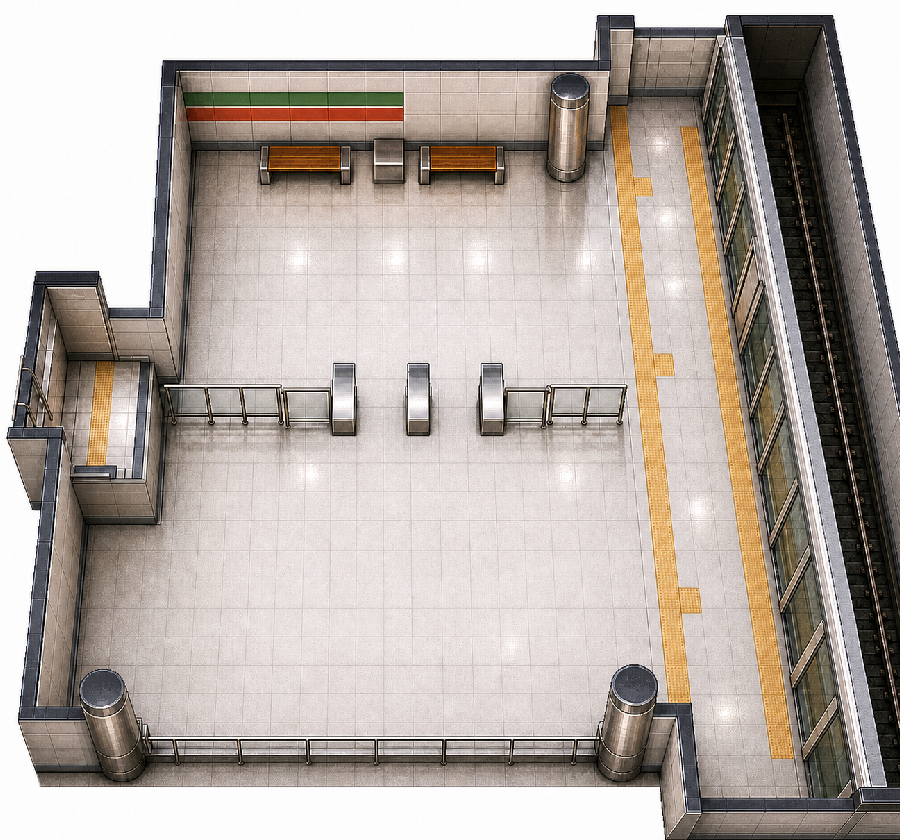
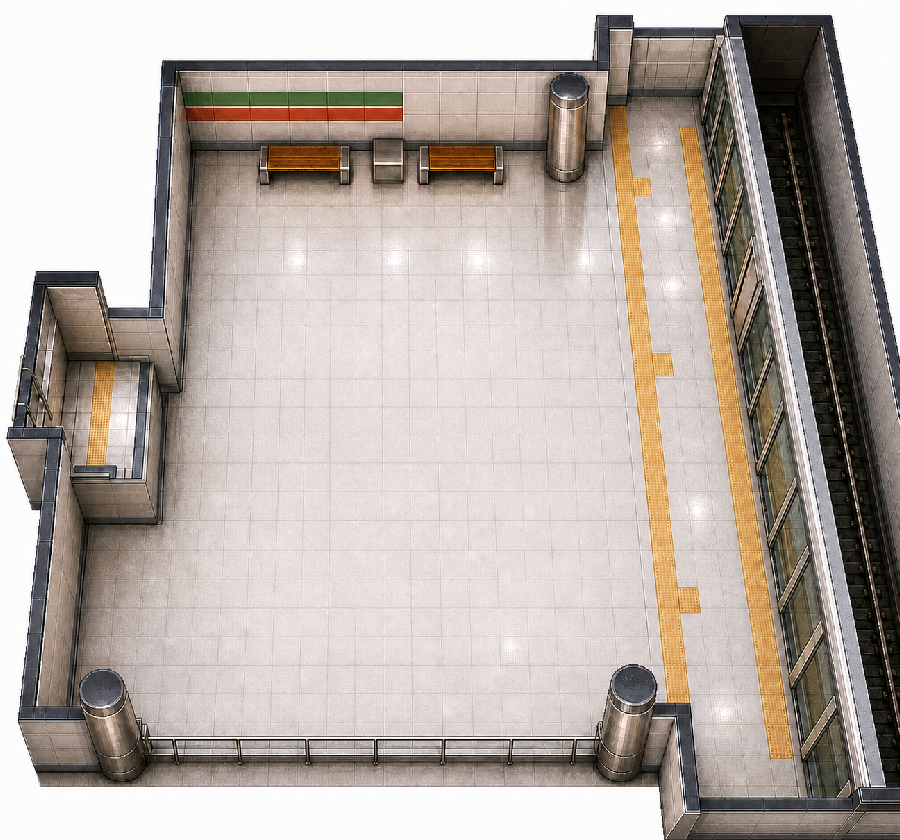
fix: redesign subway station gates

diff --git a/client/src/components/GameWorld.test.tsx b/client/src/components/GameWorld.test.tsx
@@ -516,7 +516,7 @@ describe("GameWorld", () => {
     expect(screen.getByLabelText("하객1")).toHaveStyle({ left: "705px", top: "435px" });
   });
 
-  it("renders the subway gate fronts above guests at the shared gate depth", () => {
+  it("renders the unified subway gate bank above guests at the shared gate depth", () => {
     const { container } = render(<GameWorld profile={profile} />);
 
     travelThroughPortal("동네로 나가기");
@@ -526,11 +526,18 @@ describe("GameWorld", () => {
     const gateFronts = [...container.querySelectorAll('img[data-decoration="ticket-gate"]')];
 
     expect(stage).toHaveStyle({ width: "900px", height: "840px" });
-    expect(gateFronts).toHaveLength(3);
-    for (const [gate, x] of gateFronts.map((item, index) => [item, 360 + index * 90] as const)) {
-      expect(gate).toHaveAttribute("src", "/assets/maps/v2/subway-station/ticket-gate-front.png");
-      expect(gate).toHaveStyle({ left: `${x}px`, top: "360px", width: "60px", height: "120px", zIndex: "1480" });
-    }
+    expect(gateFronts).toHaveLength(1);
+    expect(gateFronts[0]).toHaveAttribute(
+      "src",
+      "/assets/maps/v2/subway-station/ticket-gate-bank-front.png"
+    );
+    expect(gateFronts[0]).toHaveStyle({
+      left: "360px",
+      top: "360px",
+      width: "240px",
+      height: "120px",
+      zIndex: "1480"
+    });
   });
 
   it("renders the wide subway train strap foreground and arrives at the Task 9 venue coordinate", () => {

diff --git a/client/src/game/world.test.ts b/client/src/game/world.test.ts
@@ -303,7 +303,7 @@ describe("guest route world", () => {
     expect(returnNeighborhood && isBlocked(returnNeighborhood.spawn, neighborhood)).toBe(false);
   });
 
-  it("defines the v2 subway station layout, portals, and gate-front overlays", () => {
+  it("defines the v2 subway station layout, portals, and unified gate bank", () => {
     const station = getWorldZone(gardenWorld, "subway-station");
     const [directionsSpot] = station.spots;
 
@@ -347,9 +347,15 @@ describe("guest route world", () => {
       })
     ]);
     expect(station.decorations.filter((item) => item.kind === "ticket-gate")).toEqual([
-      expect.objectContaining({ id: "station-gate-1", x: 360, y: 360, width: 60, height: 120, asset: "ticket-gate-front.png", depthY: 480 }),
-      expect.objectContaining({ id: "station-gate-2", x: 450, y: 360, width: 60, height: 120, asset: "ticket-gate-front.png", depthY: 480 }),
-      expect.objectContaining({ id: "station-gate-3", x: 540, y: 360, width: 60, height: 120, asset: "ticket-gate-front.png", depthY: 480 })
+      expect.objectContaining({
+        id: "station-gate-bank",
+        x: 360,
+        y: 360,
+        width: 240,
+        height: 120,
+        asset: "ticket-gate-bank-front.png",
+        depthY: 480
+      })
     ]);
   });
 
@@ -906,7 +912,8 @@ describe("guest route world", () => {
       expect(zone.theme).toBe(zone.id);
       expect(zone.paths.length).toBeGreaterThan(0);
       if (zone.id !== "bridal-room") {
-        expect(zone.decorations.length).toBeGreaterThanOrEqual(zone.id === "restroom" ? 7 : 8);
+        const minimumDecorationCount = ["restroom", "subway-station"].includes(zone.id) ? 7 : 8;
+        expect(zone.decorations.length).toBeGreaterThanOrEqual(minimumDecorationCount);
         expect(new Set(zone.decorations.map((item) => item.kind)).size).toBeGreaterThanOrEqual(4);
       }
     }

diff --git a/client/src/game/world.ts b/client/src/game/world.ts
@@ -310,16 +310,8 @@ const subwayStationZone = createZone({
   ],
   decorations: [
     decoration("station-sign", "station-sign", "노선 안내판", 180, 90, 300, 60),
-    decoration("station-gate-1", "ticket-gate", "개찰구", 360, 360, 60, 120, {
-      asset: "ticket-gate-front.png",
-      depthY: 480
-    }),
-    decoration("station-gate-2", "ticket-gate", "개찰구", 450, 360, 60, 120, {
-      asset: "ticket-gate-front.png",
-      depthY: 480
-    }),
-    decoration("station-gate-3", "ticket-gate", "개찰구", 540, 360, 60, 120, {
-      asset: "ticket-gate-front.png",
+    decoration("station-gate-bank", "ticket-gate", "통합 개찰구", 360, 360, 240, 120, {
+      asset: "ticket-gate-bank-front.png",
       depthY: 480
     }),
     decoration("station-bench-1", "bench", "대합실 벤치", 270, 150, 120, 45),